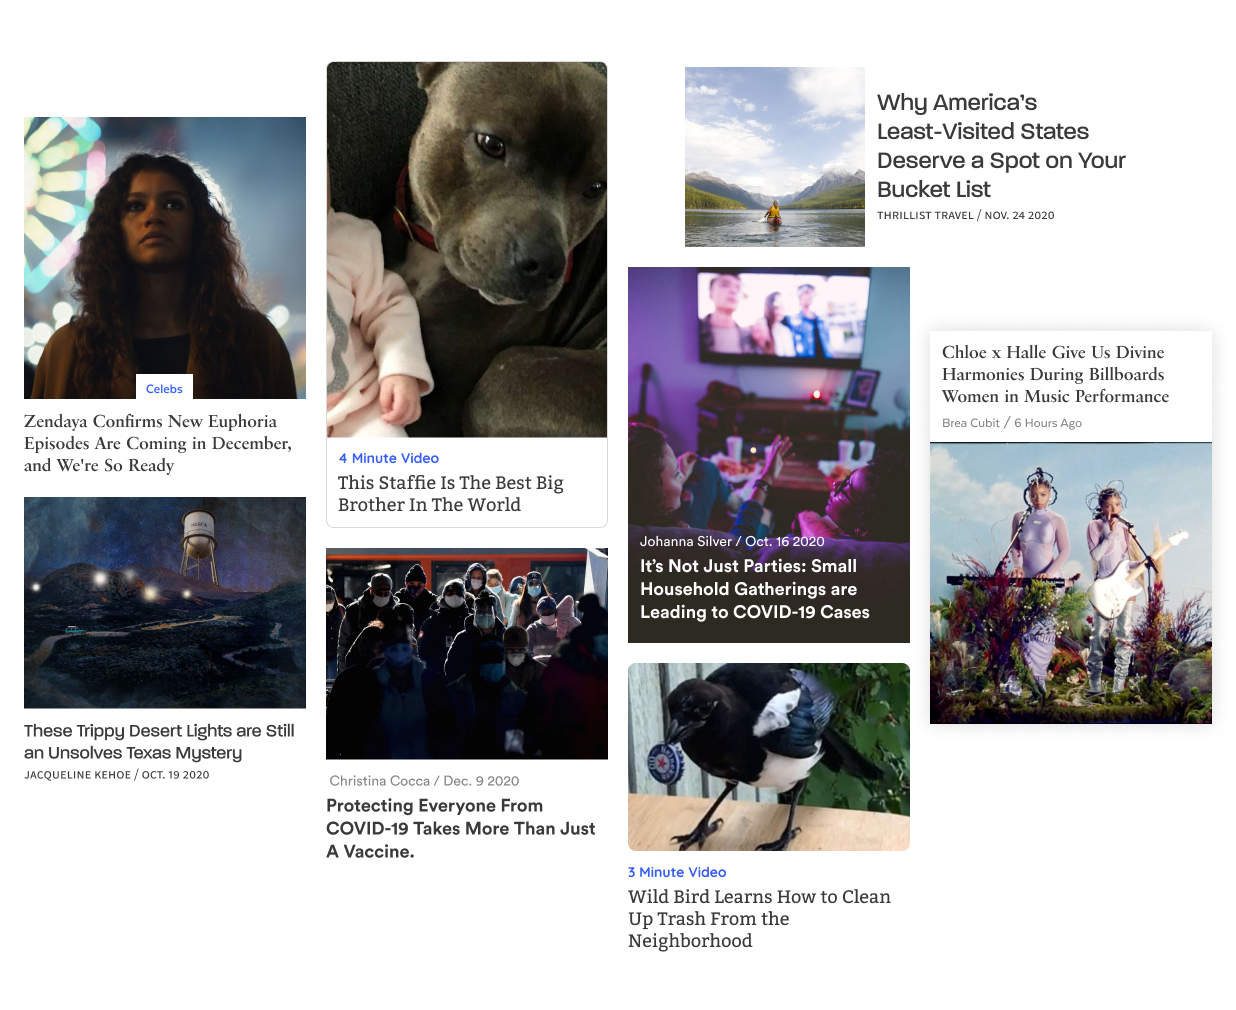
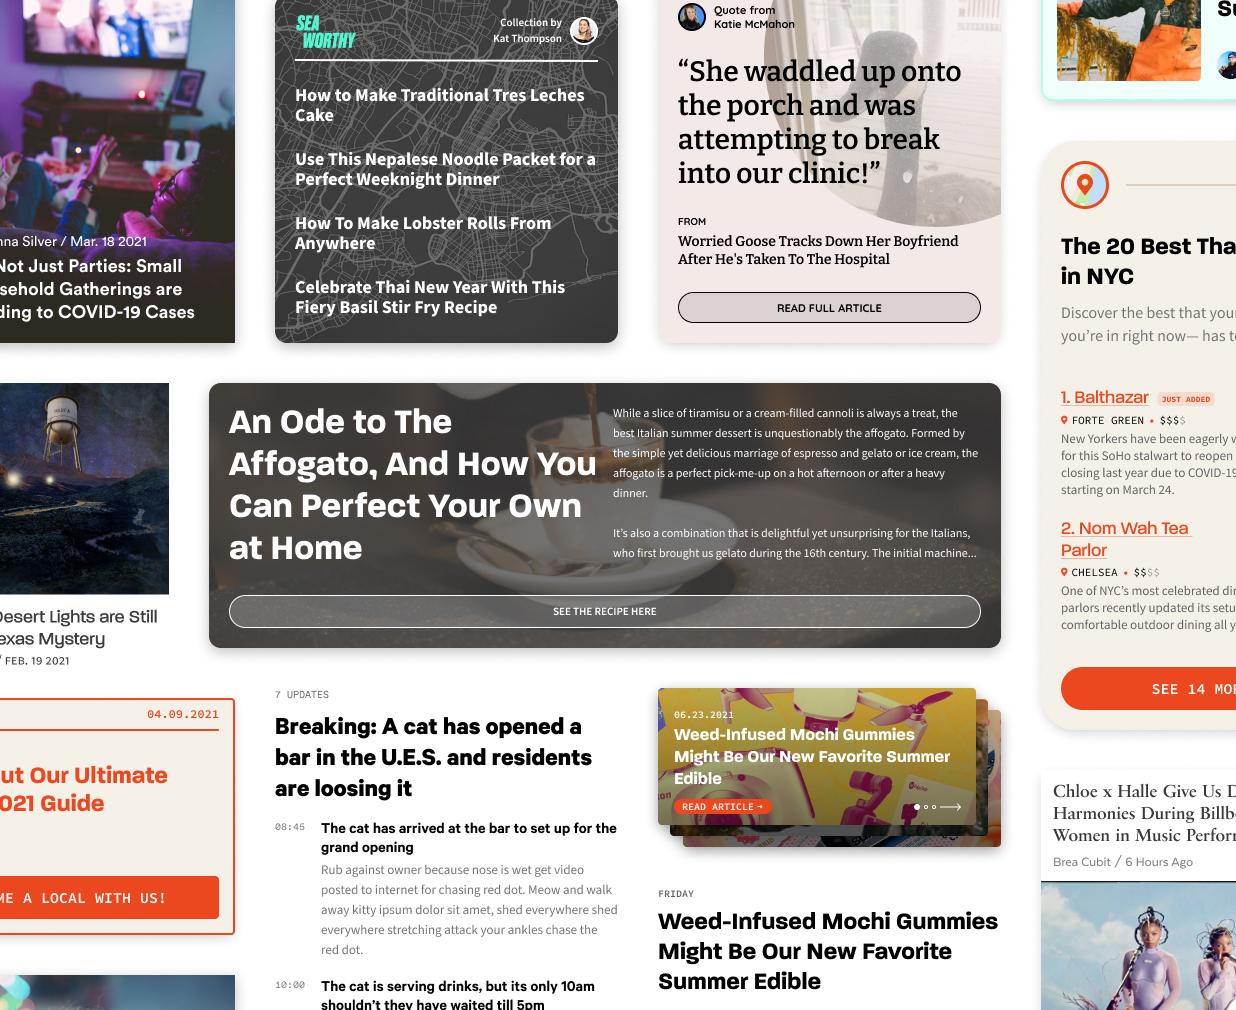
updated some info and reworked an image

diff --git a/pages/projects/pinnacle.js b/pages/projects/pinnacle.js
@@ -42,7 +42,7 @@ export default function Main() {
 
           <div className={styles.spacer}>If you found this while inspecting the page and can see this good on ya! I couldn't get css grid to do exactly what I wanted so I hacked in this spacer to get the grid to play nice!</div>
 
-          <h3>— pinnacle design system<span>(2020)</span></h3>
+          <h3>— pinnacle design system<span>(2020-2021)</span></h3>
           <p className={styles.intro}>for the last year, I’ve been working on a project at group nine called pinnacle&sup3;, this is one of the most ambitious initiatives group nine has ever undertaken for its home grown sites. this project touches everything from the back-end data structures to front-end implementation and design.</p>
 
           <div className={styles.contributions}>
@@ -160,7 +160,7 @@ export default function Main() {
             src="/assets/imgs/pinnacle-cards.jpg"
             alt="pinnacles content cards themed for each brand"
           />
-          <cite>examples of content cards, one of pinnacles most used components themed to demonstrate its flexibilty across brands</cite>
+          <cite>examples of some components used in our design system for the brands</cite>
 
           <h5>challenges</h5>
 
